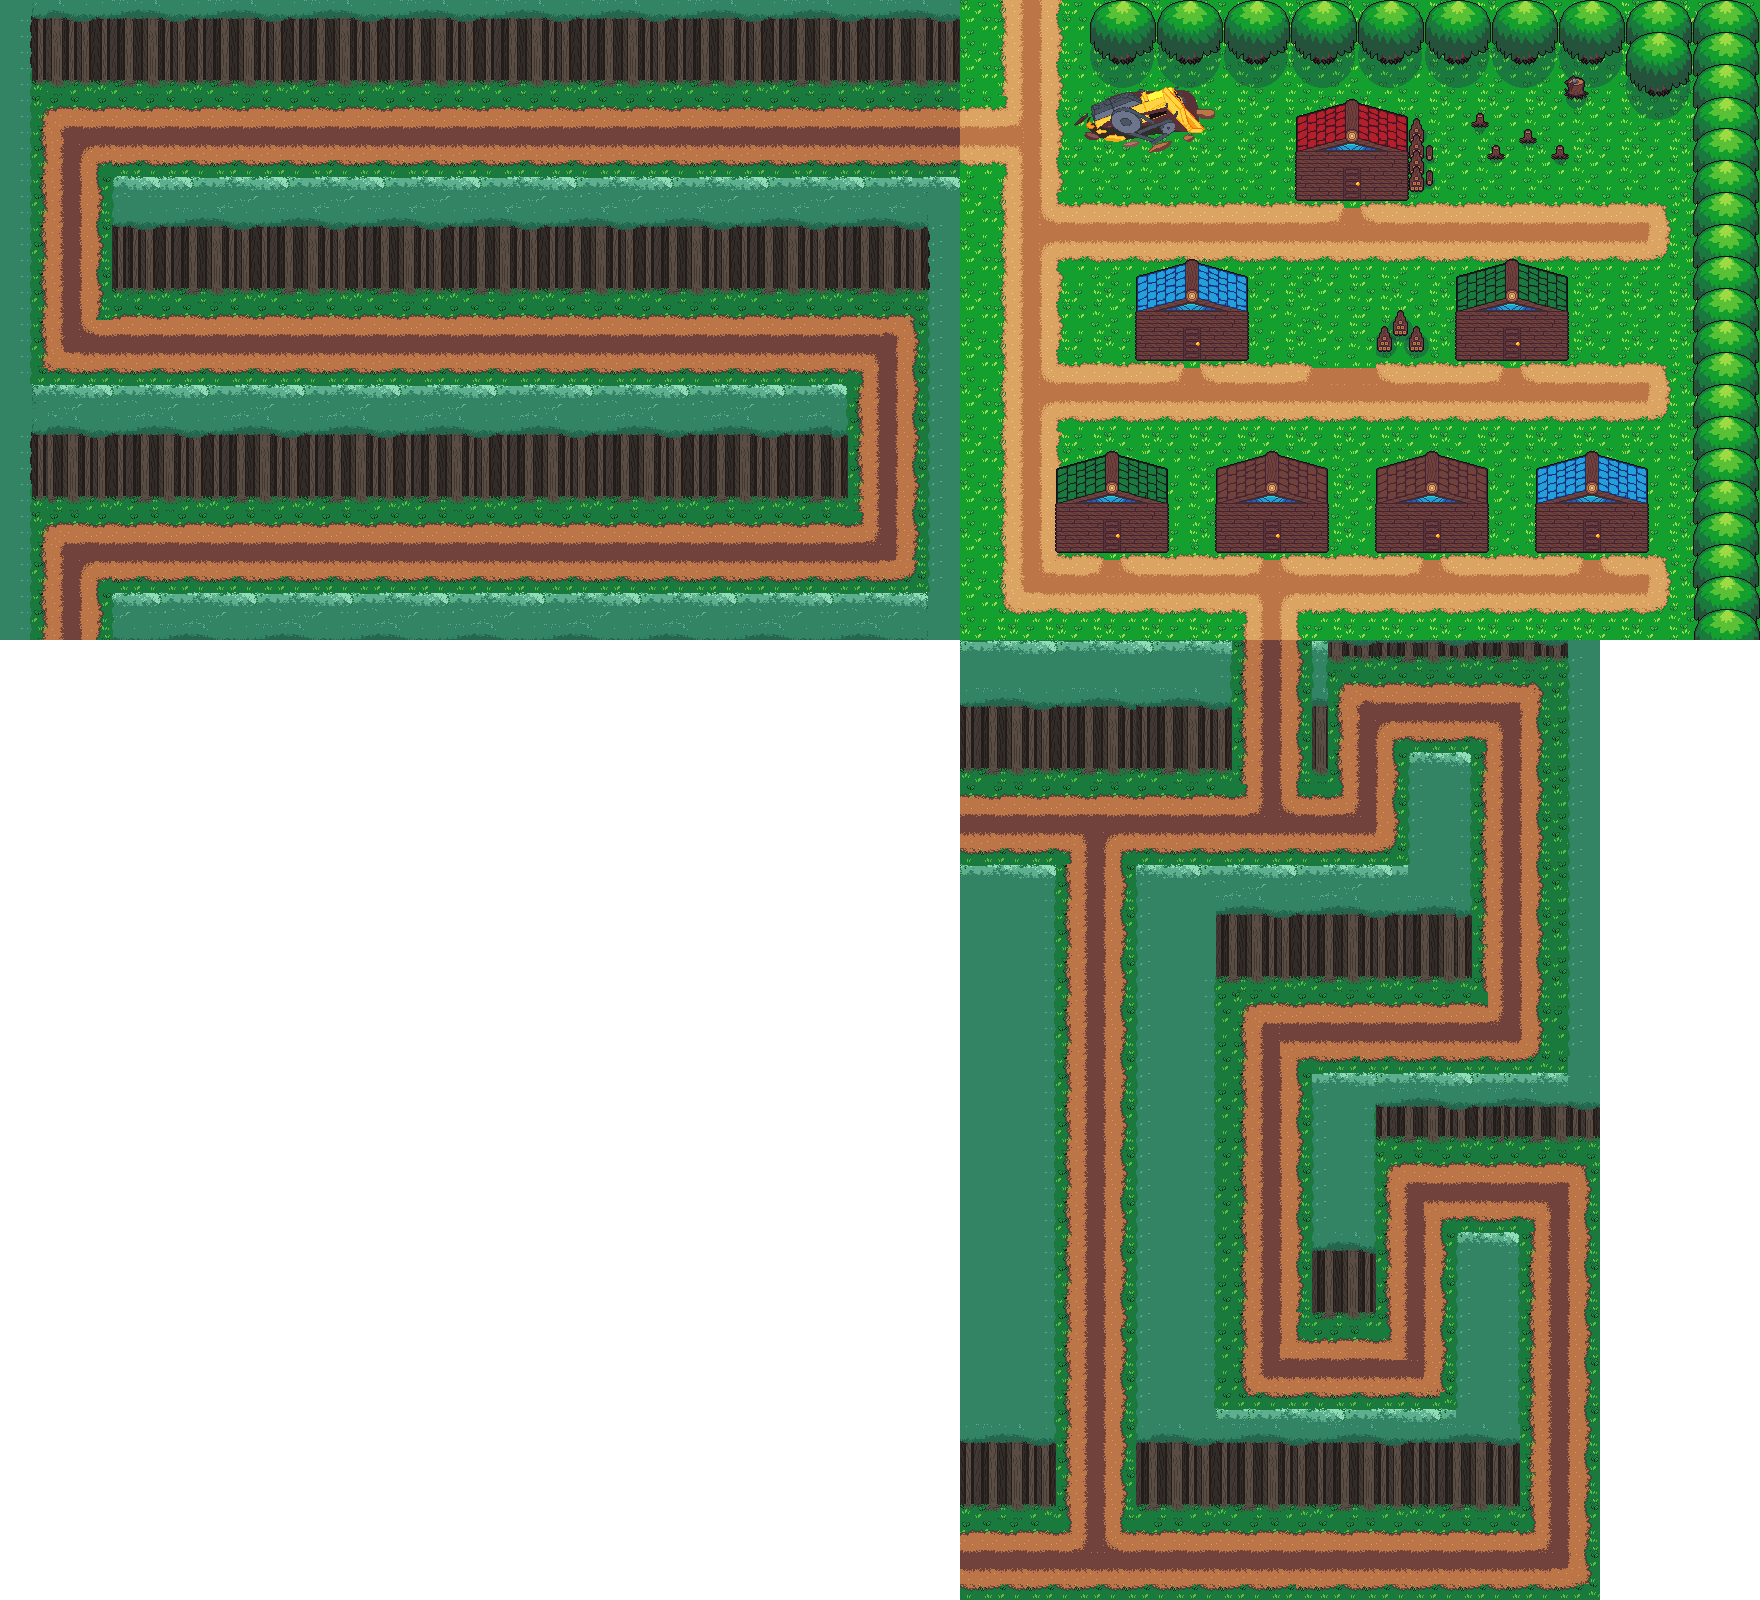
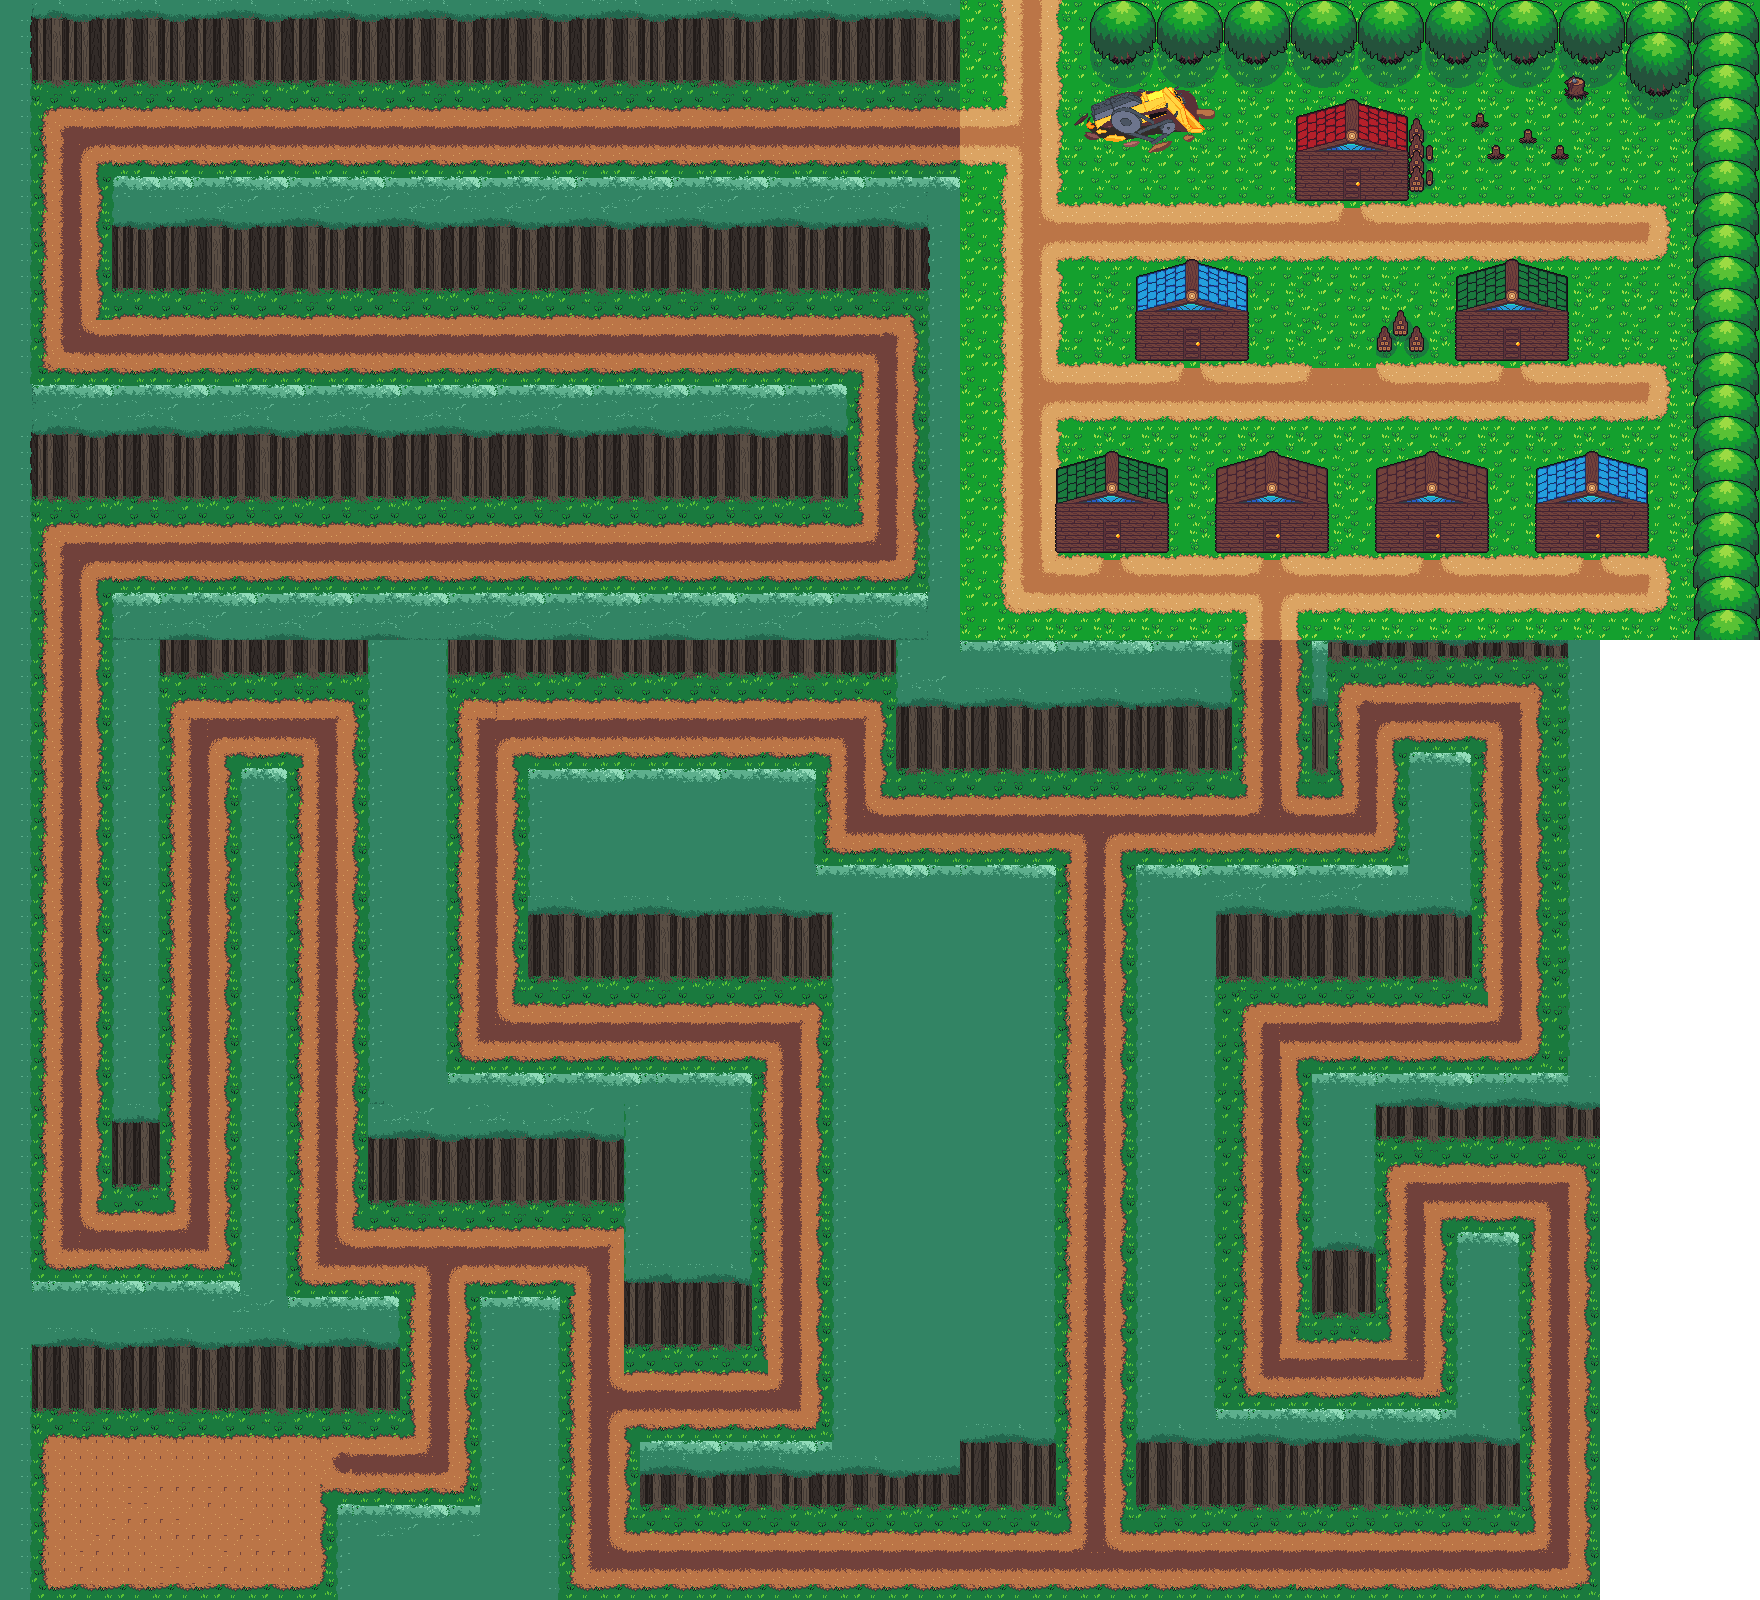
Made Dark Forest Center
Made the texture of Dark Forest Center, preparing to make load points and collisions

diff --git a/gfx/maps/map_3_4_5_tiled_data/dark_forest_tileset.tsx b/gfx/maps/map_3_4_5_tiled_data/dark_forest_tileset.tsx
@@ -1,4 +1,4 @@
 <?xml version="1.0" encoding="UTF-8"?>
-<tileset version="1.10" tiledversion="1.11.2" name="dark_forest_tileset" tilewidth="16" tileheight="16" tilecount="448" columns="32">
- <image source="dark_forest_tileset.png" width="519" height="231"/>
+<tileset version="1.10" tiledversion="1.11.2" name="dark_forest_tileset" tilewidth="16" tileheight="16" tilecount="512" columns="32">
+ <image source="dark_forest_tileset.png" width="519" height="264"/>
 </tileset>

diff --git a/src/map_loader.cpp b/src/map_loader.cpp
@@ -298,6 +298,7 @@ void load_dark_forest_south()
         MAP_4_RECT_12,
     });
     add_load_rects({{DARK_FOREST_SOUTH_TO_VILLAGE, VILLAGE_MAP, VILLAGE_SPAWNPOINT_FROM_DARK_FOREST_SOUTH}});
+    //tons of lil dudes
     entities.push_back(std::make_unique<Enemy_forest_scourge>());
     entities.push_back(std::make_unique<Enemy_forest_scourge>());
     entities.push_back(std::make_unique<Enemy_forest_scourge>());
